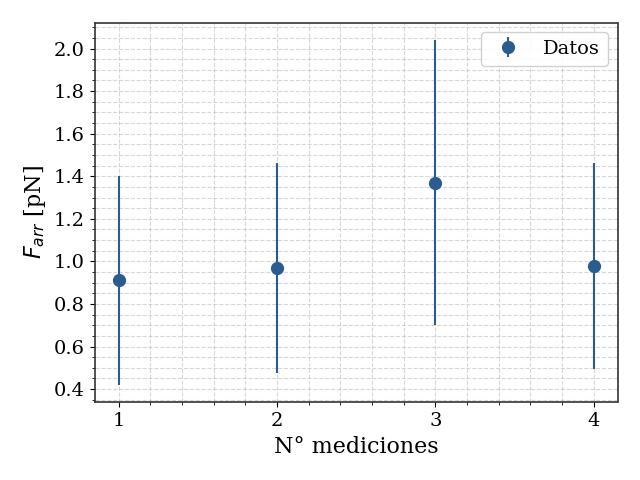
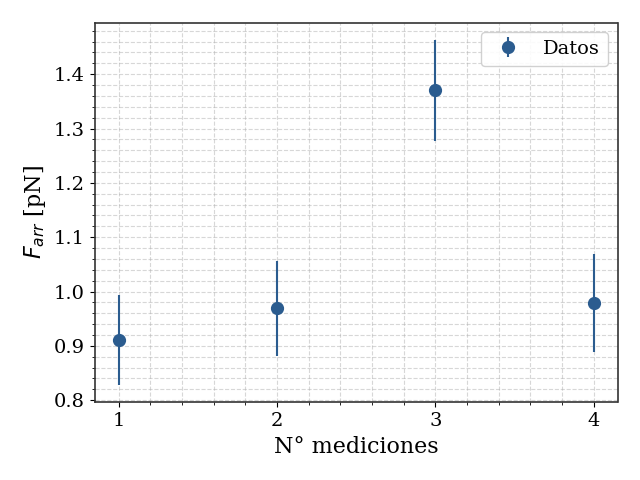
deje la fuerza de drag bien chupete

diff --git a/practica3/clase4/calculo_fuerza_drag.py b/practica3/clase4/calculo_fuerza_drag.py
@@ -6,13 +6,13 @@ plt.style.use('estiloGraficos.mplstyle')
 tiempo = np.array([5.1,5.1,7,5]) # s
 t_e = 0.2 # s
 aceleración = 0.005 * 1e3# um s**-2
-a_e = aceleración*0  * 1e3 # um s**-2
+a_e = aceleración*0.01# um s**-2
 velocidad = aceleración * tiempo # um s**-1
 v_e = np.sqrt(((tiempo*a_e)**2) + ((aceleración*t_e)**2))
 dist_px = 0.094 # um px**-1
 d_px_e = 0.005 # um px**-1
 diametro = np.array([31,33,34,34]) * dist_px # um
-diam_e = np.sqrt((4 * dist_px)**2 + (d_px_e)**2) # um; voy a probar a no ponerle error al diám que medimos
+diam_e = np.sqrt((0 * dist_px)**2 + (d_px_e)**2) # um; voy a probar a no ponerle error al diám que medimos
 print(diametro)
 print(diam_e) 
 print(diametro)
@@ -50,7 +50,7 @@ fig3.show()
 
 rho = 1e-3 * 1e-12 # kg um**-3
 area_p = np.pi * ((diametro*0.5)**2) # um**2
-areap_e = np.pi * diametro * diam_e # um**2
+areap_e = np.pi * diametro * 0.5 * diam_e # um**2
 f_d = 0.5 * c_d * rho * (velocidad**2) * area_p # uN
 print(f_d)
 d_cd = 0.5 * rho * (velocidad**2) * area_p
@@ -67,3 +67,10 @@ ax4.set_ylabel(r"$F_{arr}$ [pN]")
 ax4.legend()
 fig4.savefig("FuerzaArrastre.png")
 fig4.show()
+#%% voy a hacer una cuenta para ver por qué tenemos tanto error
+f_d2 = 3*np.pi*nu*velocidad*rho*diametro
+rel_vel = (v_e/velocidad) * 100
+rel_diam = (diam_e/diametro) * 100
+print(np.mean(rel_vel))
+print(np.mean(rel_diam))
+print(f_d2)
